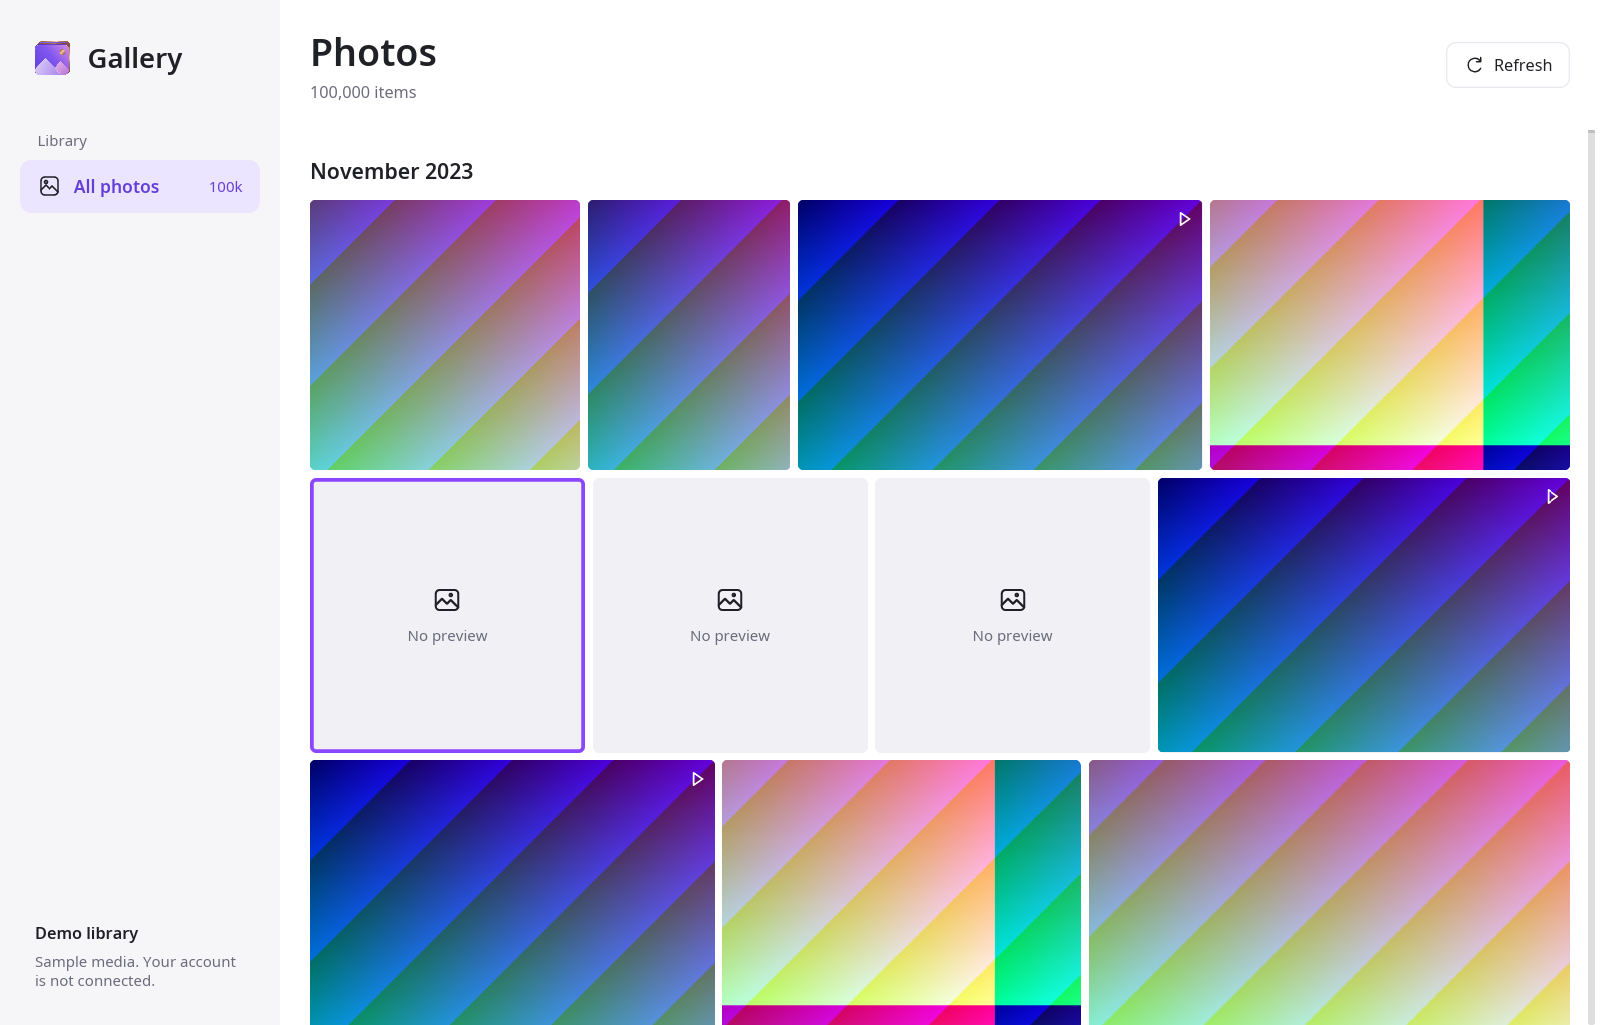
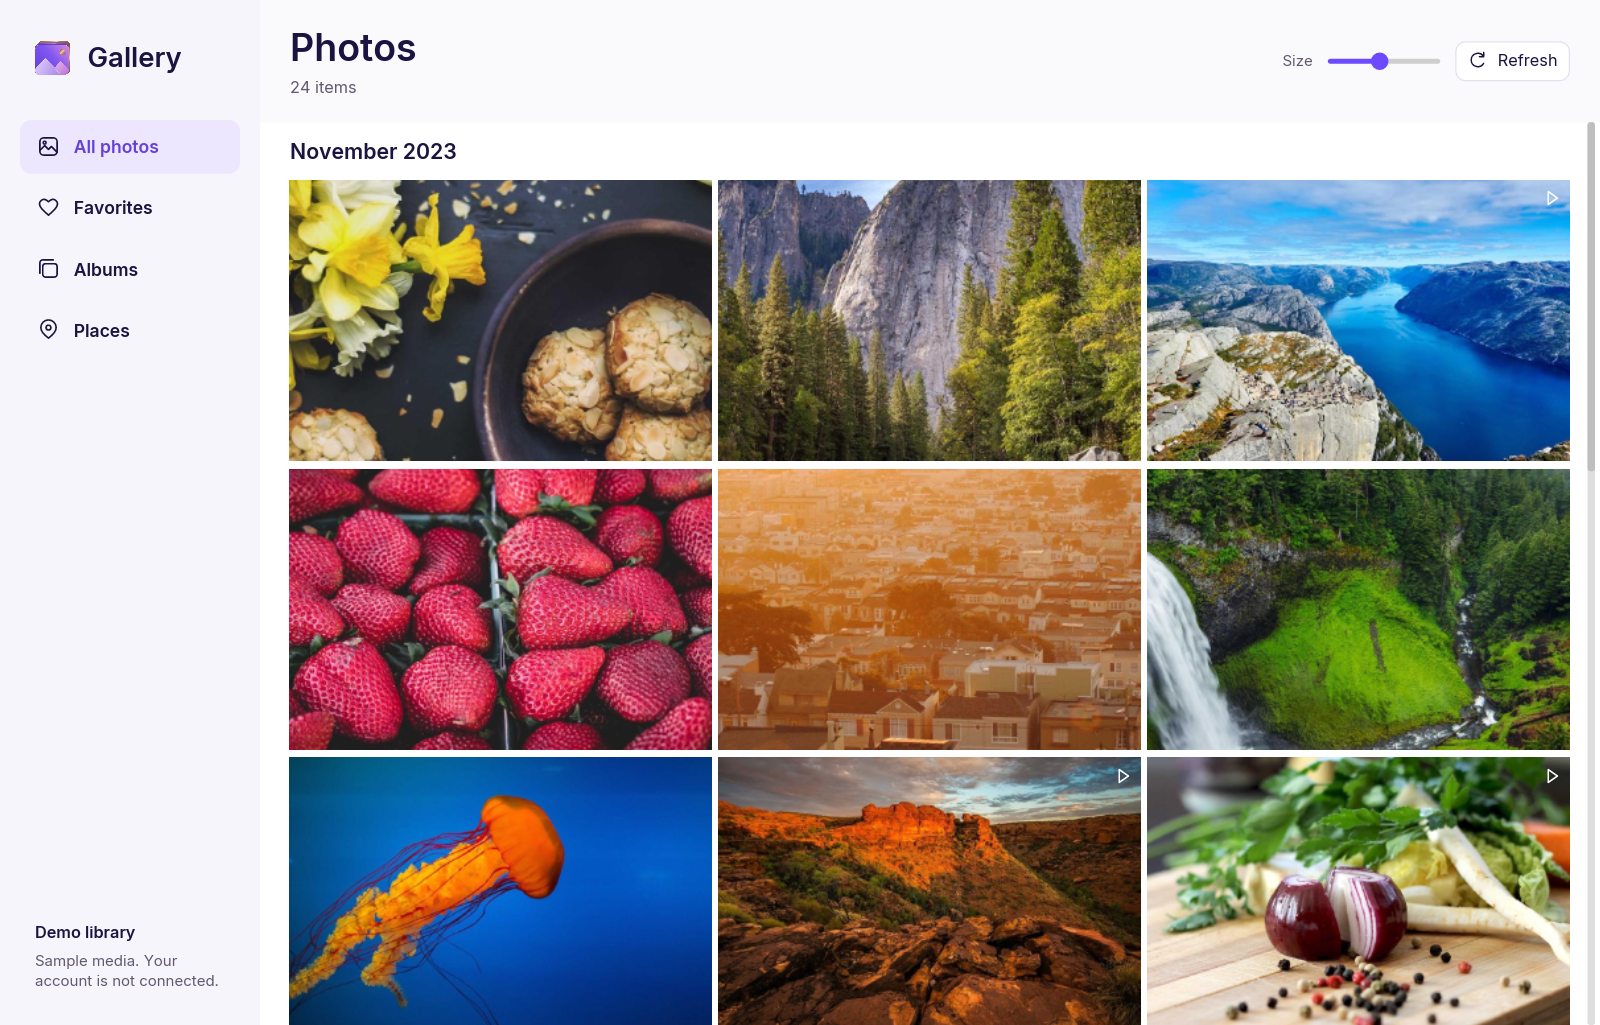
chore(docs) updated screenshots

diff --git a/android/app/src/test/java/io/narl/protongallery/GalleryUiTest.kt b/android/app/src/test/java/io/narl/protongallery/GalleryUiTest.kt
@@ -440,7 +440,8 @@ class GalleryUiTest {
         val pixel = FolderAlbum("album-2", "album-2", null, "Pixel 6", 9uL, 0uL)
         val secret = FolderAlbum("album-3", "album-3", null, "Private", 2uL, 0uL, hidden = true)
         val changes = mutableListOf<String>()
-        render(emptyList(), ThemeMode.Light, initialLocation = GalleryLocation(),
+        val photos = if (System.getProperty("pg.screenshot.photos") != null) fixtureItems() else emptyList()
+        render(photos, ThemeMode.Light, initialLocation = GalleryLocation(), photosTab = true,
             backup = BackupState(folders = folders, albums = listOf(BackupAlbumTarget(null, pixel), BackupAlbumTarget("camera", secret))),
             account = AccountState(status = AccountStatus(SignInStage.CONNECTED, "tester", null, false)),
             actions = BackupActions(setAlbum = { folder, album, add, existing -> changes += "$folder:${album.name}:$add:$existing" }),
@@ -822,6 +823,63 @@ class GalleryUiTest {
         compose.onNodeWithText("Coast").assertExists()
     }
 
+    @Test fun capture_gallery_screens() {
+        org.junit.Assume.assumeNotNull(System.getProperty("pg.screenshot.photos"))
+        val items = fixtureItems()
+        val albums = listOf("Road trip" to 0, "Underwater" to 1, "Waterfalls" to 2,
+            "Golden hour" to 3, "From the market" to 4, "Fjords" to 5).mapIndexed { index, (name, cover) ->
+            FolderAlbum("album-$index", "album-$index", null, name, (4 + index).toULong(), 0uL, cover = items[cover])
+        }
+        val towns = listOf(Triple("Florence", 0.5313, 0.3645), Triple("Milan", 0.5255, 0.3579),
+            Triple("Venice", 0.5343, 0.3580), Triple("Rome", 0.5347, 0.3715))
+        val places = towns.mapIndexed { i, (town, x, y) -> PlacePhoto(items[i].id, items[i].name, x, y, town, i.toUInt()) }
+        render(items, ThemeMode.Light, initialLocation = GalleryLocation(), photosTab = true,
+            account = AccountState(status = AccountStatus(SignInStage.CONNECTED, "demo", null, false)),
+            photoAlbums = albums, driveRoots = listOf("Wildlife" to 8, "Glaciers" to 9, "City walks" to 16, "Woodland" to 18).map { (name, i) ->
+                FolderAlbum("gallery-$i", "root-$i", null, name, 0uL, 2uL, cover = items[i])
+            },
+            places = PlacesActions(scan = { update -> update(PlacesProgress(places, checked = 4, total = 4, scanning = false)) },
+                item = { id -> items.firstOrNull { it.id == id } },
+                basemap = { io.narl.protongallery.bridge.PlacesMap.openPath(File("build/generated/basemap/$BASEMAP_ASSET").absolutePath) }))
+        compose.onNodeWithContentDescription("Albums").performClick()
+        compose.onNodeWithContentDescription("Album Road trip, 4 items").assertExists()
+        compose.onRoot().captureRoboImage("build/screenshots/gallery-albums.png")
+        compose.onNodeWithContentDescription("Drive").performClick()
+        compose.onNodeWithText("Wildlife").assertExists()
+        compose.onRoot().captureRoboImage("build/screenshots/gallery-drive.png")
+        compose.onNodeWithContentDescription("Places").performClick()
+        compose.onNodeWithText("4 photos on the map").assertExists()
+        compose.waitUntil(UI_TIMEOUT_MS) {
+            compose.onAllNodes(SemanticsMatcher.expectValue(SemanticsProperties.StateDescription, "4 places")).fetchSemanticsNodes().isNotEmpty()
+        }
+        // The Rust tile renderer finishes on a background dispatcher after
+        // the marker semantics are ready. Sample the map away from controls.
+        val capture = File("build/screenshots/gallery-places.png")
+        val background = io.narl.protongallery.bridge.mapSea(false).toInt()
+        compose.waitUntil(UI_TIMEOUT_MS) {
+            compose.onRoot().captureRoboImage(capture.absolutePath)
+            val frame = BitmapFactory.decodeFile(capture.absolutePath, BitmapFactory.Options().apply { inSampleSize = 8 })
+            try {
+                (2..8).all { row ->
+                    (1..9).count { col ->
+                        val pixel = frame.getPixel(frame.width * col / 10, frame.height * row / 10)
+                        pixel != background
+                    } >= 6
+                }
+            } finally { frame.recycle() }
+        }
+    }
+
+    @Test fun capture_gallery_viewer() {
+        org.junit.Assume.assumeNotNull(System.getProperty("pg.screenshot.photos"))
+        val hero = fixtureItems()[2].copy(name = "Waterfall.jpg")
+        render(listOf(hero), ThemeMode.Dark)
+        compose.waitUntil(UI_TIMEOUT_MS) { compose.onAllNodesWithContentDescription("Photo: ${hero.name}").fetchSemanticsNodes().isNotEmpty() }
+        compose.onNodeWithContentDescription("Photo: ${hero.name}").performClick()
+        compose.waitUntil(UI_TIMEOUT_MS) { compose.onAllNodesWithContentDescription(hero.name).fetchSemanticsNodes().isNotEmpty() }
+        compose.onRoot().captureRoboImage("build/screenshots/gallery-viewer.png")
+    }
+
     private fun render(items: List<GalleryItem>, mode: ThemeMode, onImport: () -> Unit = {}, fontScale: Float = 1f, initialLocation: GalleryLocation = GalleryLocation(GallerySection.Device), options: AlbumOptions? = null, onZoom: (Float) -> Unit = {},
         backup: BackupState = BackupState(), actions: BackupActions = BackupActions(), account: AccountState = AccountState(), photosTab: Boolean = false,
         media: MediaActions = MediaActions(), pick: PickRequest? = null, onPick: (List<GalleryItem>) -> Unit = {}, state: LibraryState? = null,
@@ -839,7 +897,7 @@ class GalleryUiTest {
         }
         compose.setContent {
             var location by remember { mutableStateOf(initialLocation) }
-            val root = remember { FolderAlbum("gallery", "root", null, "Trips", 0uL, 1uL) }
+            val root = remember { FolderAlbum("gallery", "root", null, "Trips", 0uL, 1uL, cover = items.getOrNull(6)) }
             val year = remember { FolderAlbum("gallery", "year", "root", "2026", 0uL, 1uL) }
             val coast = remember { FolderAlbum("gallery", "coast", "year", "Coast", items.size.toULong(), 0uL, description = options?.description, tags = options?.tags ?: emptyList()) }
             val albums = when (location.album?.id) {

diff --git a/docs/ANDROID.md b/docs/ANDROID.md
@@ -241,18 +241,19 @@ The limits above describe the implementation, not Android device measurements.
 
 ## Website screenshots
 
-The website and README use the same public demo photographs as Drive’s photo captures,
-with synthetic Gallery metadata. No private account is opened. Ordinary UI tests retain
+The README capture uses fixed public Picsum photos and synthetic Gallery metadata,
+following the same approach as Drive. No private account is opened. Ordinary UI tests retain
 procedural images; the screenshot job opts into the photo fixtures explicitly.
 
 After a development build has produced the host native library and generated bindings:
 
 ```sh
-JAVA_HOME=/path/to/jdk-21 scripts/screenshots.sh --photos ~/.cache/pdfs-screenshots
+JAVA_HOME=/path/to/jdk-21 scripts/screenshots.sh
 ```
 
-The photo directory is the cache populated by Drive’s `scripts/screenshots.sh`, or any
-explicitly supplied directory of demo JPEGs. The helper runs the relevant Compose UI tests
+The first run downloads the curated set to `~/.cache/pg-screenshot-photos`. To
+use Drive’s cached selection or your own demo JPEGs, pass `--photos DIR`.
+The helper runs the relevant Compose UI tests
 and snapshots the photo captures to `android/app/build/photo-screenshots/`, separately
 from ordinary test output. The websites’ sync scripts then
 copy those captures and regenerate their social previews. The photographs are test inputs

diff --git a/README.md b/README.md
@@ -84,7 +84,7 @@ integration is available with an additional device setup step; see the
   <tr>
     <td align="center"><a href="images/photos.png"><img src="images/photos.png" alt="Photos timeline with backup indicators" width="200"></a><br><sub>Photos</sub></td>
     <td align="center"><a href="images/albums.png"><img src="images/albums.png" alt="Proton Photos albums" width="200"></a><br><sub>Albums</sub></td>
-    <td align="center"><a href="images/drive.png"><img src="images/drive.png" alt="A nested Drive folder album" width="200"></a><br><sub>Drive galleries</sub></td>
+    <td align="center"><a href="images/drive.png"><img src="images/drive.png" alt="Drive galleries with photographic folder covers" width="200"></a><br><sub>Drive galleries</sub></td>
     <td align="center"><a href="images/backup.png"><img src="images/backup.png" alt="Phone backup folders and album destinations" width="200"></a><br><sub>Backup</sub></td>
   </tr>
   <tr>

diff --git a/docs/DESKTOP.md b/docs/DESKTOP.md
@@ -142,8 +142,8 @@ small windows. The still viewer keeps a dark canvas in either system theme, with
 images, visible navigation labels, and a compact zoom/pan hint. Sync errors appear below the
 toolbar without replacing the library count. The sidebar hides below 760 logical pixels.
 
-The light and dark library previews below use deterministic fixture media, including
-unavailable thumbnails; they do not show a real account.
+The light and dark previews show Gallery’s desktop demo library with the same
+public photographs used for the Android captures.
 
 ![Desktop Photos library in the light theme](images/desktop-gallery-light.png)
 
